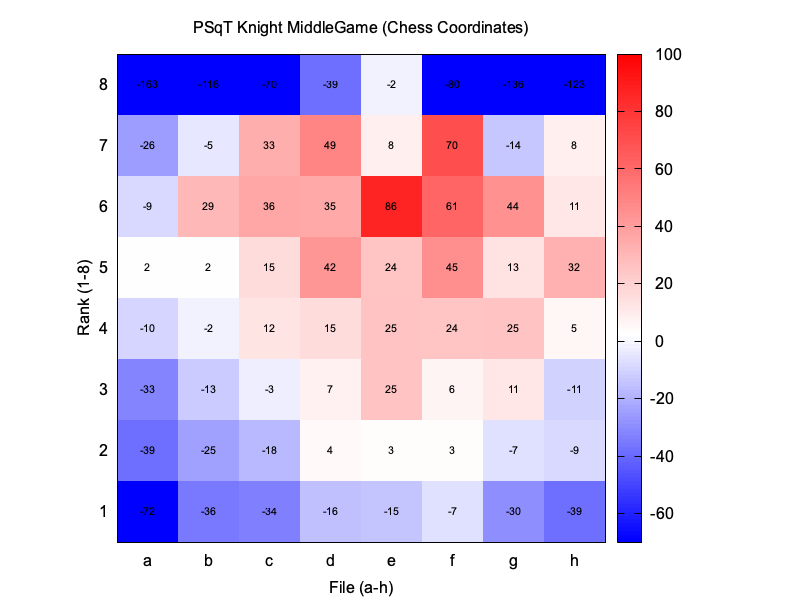
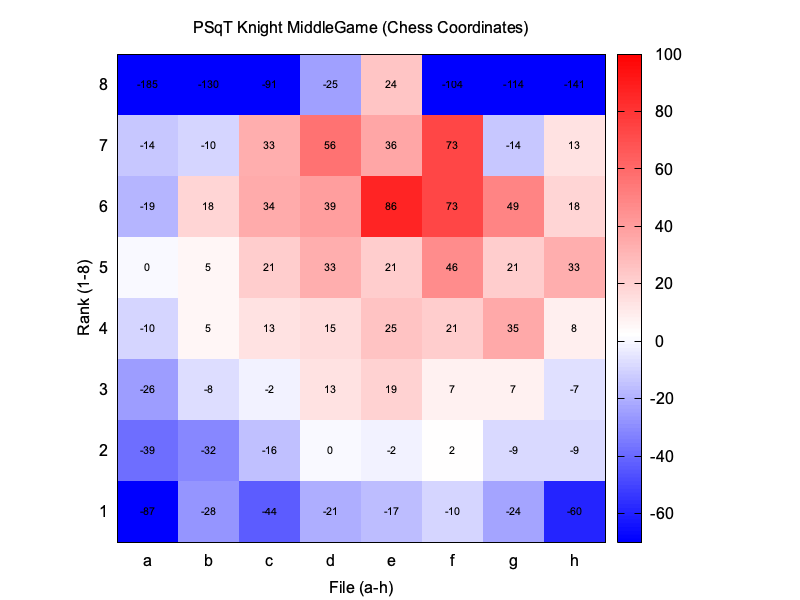
retune with the first 10m ethereal positions
bench 17646719

diff --git a/eval/coeff.go b/eval/coeff.go
@@ -55,175 +55,175 @@ var Coefficients = CoeffSet[Score]{
 	PSqT: [12][64]Score{
 		{
 			0, 0, 0, 0, 0, 0, 0, 0,
-			63, 90, 64, 98, 83, 42, -39, -68,
-			27, 32, 66, 65, 73, 109, 88, 41,
-			0, 11, 21, 26, 48, 43, 35, 18,
-			-8, -2, 10, 28, 29, 24, 14, 5,
-			-9, -4, 5, 7, 22, 15, 30, 8,
-			-8, -5, -4, -4, 9, 28, 38, 1,
+			102, 112, 89, 111, 109, 67, -65, -64,
+			9, 30, 51, 45, 61, 114, 77, 24,
+			4, 16, 18, 31, 49, 49, 38, 13,
+			-2, 2, 11, 19, 25, 24, 21, 7,
+			-4, -4, 1, 5, 16, 18, 28, 12,
+			-4, -6, -9, -4, -1, 29, 39, 7,
 			0, 0, 0, 0, 0, 0, 0, 0,
 		},
 		{
 			0, 0, 0, 0, 0, 0, 0, 0,
-			123, 109, 108, 46, 50, 76, 121, 136,
-			28, 29, -14, -55, -59, -35, 4, 9,
-			12, 1, -14, -33, -35, -26, -12, -11,
-			-6, -7, -19, -27, -28, -23, -18, -22,
-			-11, -11, -18, -16, -18, -19, -25, -25,
-			-10, -11, -14, -11, -7, -19, -28, -27,
+			110, 101, 96, 47, 46, 64, 120, 123,
+			37, 30, 1, -31, -38, -21, 1, 10,
+			10, 0, -12, -34, -32, -27, -15, -14,
+			-7, -7, -22, -26, -26, -22, -22, -23,
+			-13, -15, -18, -20, -15, -16, -27, -28,
+			-8, -12, -10, -11, -1, -11, -27, -34,
 			0, 0, 0, 0, 0, 0, 0, 0,
 		},
 		{
-			-163, -116, -70, -39, -2, -80, -136, -123,
-			-26, -5, 33, 49, 8, 70, -14, 8,
-			-9, 29, 36, 35, 86, 61, 44, 11,
-			2, 2, 15, 42, 24, 45, 13, 32,
-			-10, -2, 12, 15, 25, 24, 25, 5,
-			-33, -13, -3, 7, 25, 6, 11, -11,
-			-39, -25, -18, 4, 3, 3, -7, -9,
-			-72, -36, -34, -16, -15, -7, -30, -39,
+			-185, -130, -91, -25, 24, -104, -114, -141,
+			-14, -10, 33, 56, 36, 73, -14, 13,
+			-19, 18, 34, 39, 86, 73, 49, 18,
+			0, 5, 21, 33, 21, 46, 21, 33,
+			-10, 5, 13, 15, 25, 21, 35, 8,
+			-26, -8, -2, 13, 19, 7, 7, -7,
+			-39, -32, -16, 0, -2, 2, -9, -9,
+			-87, -28, -44, -21, -17, -10, -24, -60,
 		},
 		{
-			-46, -4, 6, -1, -5, -22, -3, -72,
-			3, 9, -1, -3, -8, -19, 4, -22,
-			4, 4, 21, 20, -3, -10, -15, -14,
-			15, 20, 31, 25, 22, 20, 15, 0,
-			24, 21, 39, 31, 36, 26, 14, 17,
-			7, 12, 18, 34, 28, 11, 4, 10,
-			9, 11, 13, 11, 11, 7, 5, 16,
-			10, -5, 12, 15, 16, 2, -4, 5,
+			-34, 11, 22, 8, 6, 30, 12, -62,
+			-12, 4, -1, 15, 10, -18, 6, -22,
+			-4, 3, 32, 29, 11, 13, -9, -12,
+			1, 14, 34, 40, 39, 29, 24, 5,
+			10, 19, 45, 40, 45, 44, 22, 19,
+			-17, 7, 17, 36, 32, 14, 7, -2,
+			-2, 12, 0, 12, 15, -4, 4, 7,
+			-13, -27, -2, 9, 10, -3, -14, -16,
 		},
 		{
-			-41, -61, -43, -92, -83, -94, -53, -66,
-			-31, -3, -12, -30, 2, -20, -18, -54,
-			-9, 9, 11, 26, 7, 52, 25, 16,
-			-20, -8, 9, 26, 22, 10, -7, -23,
-			-17, -14, -15, 16, 12, -11, -13, -3,
-			-12, -3, -2, -8, -5, 0, 4, 4,
-			-4, 0, 4, -14, -2, 10, 18, 4,
-			-19, 4, -15, -19, -12, -17, 7, -4,
+			-59, -58, -94, -97, -89, -124, -34, -55,
+			-46, -9, -12, -31, -7, -8, -23, -52,
+			-9, 6, 26, 22, 28, 52, 38, 10,
+			-20, 5, 7, 36, 20, 19, 2, -12,
+			-13, -5, -3, 12, 14, -9, -4, -5,
+			-13, 2, -2, -2, -4, 0, 1, 5,
+			0, 1, 5, -12, -5, 1, 15, 5,
+			-2, 2, -19, -28, -23, -13, -9, -9,
 		},
 		{
-			16, 19, 8, 21, 16, 12, 10, 6,
-			3, 6, 9, 10, 1, 8, 12, 3,
-			17, 11, 12, 3, 9, 10, 6, 9,
-			12, 18, 14, 27, 17, 18, 14, 14,
-			7, 16, 24, 21, 20, 19, 12, -9,
-			6, 18, 19, 21, 24, 17, 8, -2,
-			12, 1, -2, 13, 8, 3, 7, -8,
-			-2, 11, 10, 9, 11, 15, -8, -14,
+			31, 28, 29, 36, 30, 32, 16, 17,
+			15, 20, 21, 21, 16, 18, 23, 13,
+			17, 22, 18, 12, 14, 23, 18, 14,
+			13, 22, 19, 26, 30, 20, 28, 18,
+			5, 14, 27, 28, 26, 25, 14, 2,
+			6, 15, 19, 21, 25, 15, 9, 3,
+			4, -5, -2, 10, 9, 2, 1, -21,
+			-10, 3, 6, 6, 10, 9, -3, -12,
 		},
 		{
-			26, 16, 24, 22, 33, 30, 22, 57,
-			6, 0, 26, 43, 27, 44, 19, 50,
-			-11, 17, 12, 14, 43, 40, 73, 45,
-			-16, -7, -7, 5, 7, 7, 14, 15,
-			-34, -32, -19, -7, -8, -27, -1, -15,
-			-31, -27, -17, -15, -6, -10, 19, -2,
-			-35, -23, -7, -3, 0, 1, 19, -23,
-			-20, -14, -5, 4, 8, 0, 7, -21,
+			49, 53, 31, 46, 47, 56, 58, 77,
+			14, 4, 34, 50, 43, 64, 32, 56,
+			-4, 32, 23, 42, 66, 69, 92, 38,
+			-13, -1, 8, 27, 20, 26, 29, 19,
+			-30, -26, -21, -10, -13, -22, 0, -14,
+			-32, -23, -23, -16, -14, -17, 9, -13,
+			-48, -23, -13, -8, -8, -2, 11, -34,
+			-20, -14, -7, 1, 1, -3, 7, -20,
 		},
 		{
-			24, 32, 36, 30, 26, 28, 26, 18,
-			24, 38, 37, 27, 29, 22, 22, 7,
-			24, 23, 23, 20, 11, 6, 0, -3,
-			28, 25, 31, 23, 11, 9, 7, 5,
-			24, 24, 23, 19, 16, 18, 2, 5,
-			16, 14, 13, 14, 7, 2, -20, -14,
-			15, 14, 13, 11, 5, -1, -12, 4,
-			12, 12, 15, 7, 1, 4, -2, 0,
+			33, 36, 48, 40, 44, 44, 41, 36,
+			36, 45, 41, 38, 39, 21, 30, 19,
+			33, 23, 33, 22, 14, 17, 1, 18,
+			29, 30, 33, 27, 24, 20, 13, 19,
+			20, 30, 31, 26, 26, 27, 16, 14,
+			6, 16, 15, 13, 13, 9, 0, -4,
+			9, 5, 10, 7, 5, -2, -10, 4,
+			8, 9, 13, 7, 4, 10, 1, 0,
 		},
 		{
-			-49, -28, -9, 16, 16, 26, 16, -27,
-			-11, -32, -16, -20, -29, 13, -9, 28,
-			0, -2, -3, 11, 6, 57, 47, 59,
-			-16, -6, -5, -8, 0, 11, 13, 8,
-			-9, -15, -9, 1, 4, 1, 5, 8,
-			-13, -3, 0, -2, 4, 5, 17, 6,
-			-6, -1, 7, 15, 12, 20, 26, 36,
-			-11, -13, -2, 5, 5, -13, 9, -13,
+			-30, 0, 10, 23, 31, 57, 42, 15,
+			-20, -45, -8, -30, -25, 31, -29, 27,
+			-10, 0, -2, 6, 16, 67, 62, 40,
+			-5, -5, -7, -5, 2, 9, 23, 15,
+			-2, -1, -3, 0, 1, 7, 9, 17,
+			-6, 6, 8, 2, 7, 7, 18, 10,
+			-1, 7, 11, 14, 13, 23, 26, 19,
+			2, 0, 6, 12, 14, -11, 2, -10,
 		},
 		{
-			46, 36, 54, 49, 51, 42, 8, 55,
-			3, 32, 60, 70, 102, 62, 23, 25,
-			11, 29, 56, 51, 68, 36, -1, -17,
-			30, 37, 45, 59, 63, 44, 41, 31,
-			7, 38, 41, 56, 50, 41, 24, 15,
-			-2, 8, 30, 30, 35, 30, -3, -10,
-			-19, -9, -9, -5, -1, -24, -62, -94,
-			-10, -10, -5, -9, -14, -23, -45, -24,
+			59, 51, 68, 78, 91, 85, 64, 86,
+			32, 61, 59, 97, 133, 99, 81, 54,
+			26, 26, 58, 64, 90, 78, 53, 56,
+			14, 49, 49, 72, 88, 95, 83, 61,
+			0, 37, 42, 67, 60, 58, 39, 35,
+			-12, 6, 25, 22, 24, 30, 1, -13,
+			-24, -17, -23, -9, -10, -47, -68, -58,
+			-23, -34, -26, -16, -33, -33, -52, -12,
 		},
 		{
-			94, 140, 100, 45, -18, -16, -60, 131,
-			-49, 38, 15, 120, 60, 23, 18, -56,
-			-28, 65, 29, 10, 46, 102, 26, -6,
-			-3, -12, -27, -36, -36, -34, -61, -109,
-			-58, -48, -44, -70, -78, -68, -106, -137,
-			-46, -36, -62, -62, -49, -74, -50, -72,
-			38, -9, -18, -43, -49, -35, 4, 15,
-			23, 54, 25, -60, -14, -42, 30, 30,
+			100, 171, 136, 78, 14, 34, -3, 135,
+			-34, 82, 73, 146, 84, 75, 58, -61,
+			16, 121, 110, 58, 89, 132, 86, -12,
+			21, 55, 54, 25, 34, 50, 30, -47,
+			-31, 14, 32, -14, 4, 4, -2, -83,
+			-39, -20, -30, -30, -17, -34, -17, -50,
+			17, -12, -29, -60, -54, -48, -1, 9,
+			8, 39, 7, -70, -28, -67, 17, 22,
 		},
 		{
-			-110, -70, -43, -8, -5, -5, -10, -124,
-			-9, 16, 26, 6, 28, 43, 40, 10,
-			-2, 21, 35, 48, 52, 44, 48, 11,
-			-11, 24, 44, 53, 56, 53, 45, 19,
-			-15, 15, 35, 52, 51, 39, 30, 13,
-			-20, 5, 24, 34, 31, 25, 8, -7,
-			-40, -9, 5, 13, 17, 7, -14, -38,
-			-72, -58, -35, -7, -27, -14, -50, -83,
+			-152, -88, -60, -22, -23, -25, -18, -151,
+			-19, 8, 12, -9, 10, 18, 34, -8,
+			-2, 18, 23, 34, 27, 32, 35, 7,
+			-5, 21, 37, 43, 40, 34, 29, 7,
+			-15, 15, 31, 47, 40, 31, 16, 3,
+			-10, 9, 23, 33, 30, 23, 3, -7,
+			-18, -1, 12, 18, 18, 16, -8, -33,
+			-65, -40, -21, -11, -32, -3, -36, -85,
 		},
 	},
 	PieceValues: [2][7]Score{
-		{0, 79, 392, 404, 518, 1059, 0},
-		{0, 127, 328, 347, 650, 1288, 0},
+		{0, 77, 394, 405, 521, 1113, 0},
+		{0, 133, 346, 369, 675, 1313, 0},
 	},
-	TempoBonus: [2]Score{25, 23},
+	TempoBonus: [2]Score{14, 13},
 	KingAttackPieces: [2][4]Score{
-		{7, 8, 8, 15},
-		{-49, 12, 8, -81},
+		{8, 8, 10, 16},
+		{-55, 16, 4, -81},
 	},
 	SafeChecks: [2][4]Score{
-		{9, 9, 9, 5},
-		{19, 17, -10, 8},
+		{7, 7, 7, 6},
+		{12, -5, 3, 7},
 	},
-	KingShelter: [2]Score{7, -6},
+	KingShelter: [2]Score{7, -1},
 	MobilityKnight: [2][9]Score{
-		{-57, -36, -25, -18, -12, -6, 2, 8, 10},
-		{-40, -1, 20, 30, 38, 47, 45, 41, 30},
+		{-40, -29, -24, -20, -16, -12, -6, 1, 9},
+		{-64, -7, 22, 37, 46, 55, 53, 46, 29},
 	},
 	MobilityBishop: [2][14]Score{
-		{-46, -35, -26, -22, -15, -8, -1, 2, 3, 5, 7, 9, 5, 19},
-		{-19, -3, 1, 12, 25, 37, 39, 46, 52, 49, 47, 45, 51, 37},
+		{-32, -28, -22, -21, -17, -11, -6, -5, -4, -2, 1, 4, 0, 37},
+		{-31, -10, 0, 14, 27, 40, 47, 54, 61, 60, 56, 55, 57, 36},
 	},
 	MobilityRook: [2][11]Score{
-		{-26, -19, -16, -12, -7, -1, 7, 14, 14, 17, 23},
-		{-6, 2, 11, 17, 24, 28, 29, 32, 40, 45, 39},
+		{-20, -14, -14, -10, -7, -1, 5, 12, 14, 18, 36},
+		{-3, 4, 16, 23, 34, 39, 43, 45, 50, 54, 43},
 	},
 	KnightOutpost: [2][40]Score{
 		{
-			-29, 52, 30, 20, 56, 99, 120, -30,
-			63, -8, -24, -55, 3, -39, -4, 0,
-			0, -4, 9, 33, 14, 48, 17, 12,
-			-1, 25, 37, 35, 48, 50, 68, 17,
-			0, 0, 0, 31, 48, 0, 0, 0,
+			-12, 16, 68, 22, 82, 87, 151, -37,
+			69, 18, -11, -24, 22, -33, -2, -9,
+			2, -5, 16, 23, 6, 35, 12, 28,
+			11, 23, 29, 34, 44, 60, 54, 17,
+			0, 0, 0, 33, 39, 0, 0, 0,
 		},
 		{
-			-92, 139, -14, 26, -40, 72, -47, 43,
-			-54, 24, 30, 35, 10, 37, 17, 81,
-			25, 13, 28, 26, 36, 34, 29, 36,
-			21, 13, 18, 27, 29, 15, 0, 23,
-			0, 0, 0, 21, 18, 0, 0, 0,
+			-62, 68, 10, 16, -8, 55, -25, 34,
+			-23, 10, 20, 12, 6, 30, 21, 42,
+			34, 40, 22, 28, 38, 37, 46, 37,
+			19, 16, 22, 28, 32, 17, 11, 20,
+			0, 0, 0, 19, 17, 0, 0, 0,
 		},
 	},
-	ConnectedRooks:  [2]Score{1, 7},
-	BishopPair:      [9]Score{-2, 43, 60, 55, 46, 38, 34, 36, 38},
-	ProtectedPasser: [2]Score{22, 5},
-	PasserKingDist:  [2]Score{8, 8},
+	ConnectedRooks:  [2]Score{2, 14},
+	BishopPair:      [9]Score{7, 48, 56, 51, 46, 41, 35, 31, 24},
+	ProtectedPasser: [2]Score{20, 5},
+	PasserKingDist:  [2]Score{-5, 12},
 	PasserRank: [2][6]Score{
-		{-13, -25, -20, 4, 5, 39},
-		{11, 14, 41, 68, 139, 95},
+		{-14, -22, -16, 11, 37, 72},
+		{18, 20, 43, 67, 118, 77},
 	},
-	DoubledPawns:  [2]Score{-9, -16},
-	IsolatedPawns: [2]Score{-16, -11},
+	DoubledPawns:  [2]Score{-13, -14},
+	IsolatedPawns: [2]Score{-13, -14},
 }

diff --git a/docs/eval/readme.md b/docs/eval/readme.md
@@ -84,7 +84,7 @@
 ![TempoBonus](tempobonus.png)
 
 
-Middle Game: 25 | End Game: 23
+Middle Game: 14 | End Game: 13
 
 
 ## KingAttackPieces
@@ -104,7 +104,7 @@ Middle Game: 25 | End Game: 23
 ![KingShelter](kingshelter.png)
 
 
-Middle Game: 7 | End Game: -6
+Middle Game: 7 | End Game: -1
 
 
 ## MobilityKnight
@@ -142,7 +142,7 @@ Middle Game: 7 | End Game: -6
 ![ConnectedRooks](connectedrooks.png)
 
 
-Middle Game: 1 | End Game: 7
+Middle Game: 2 | End Game: 14
 
 
 ## BishopPair
@@ -156,7 +156,7 @@ Middle Game: 1 | End Game: 7
 ![ProtectedPasser](protectedpasser.png)
 
 
-Middle Game: 22 | End Game: 5
+Middle Game: 20 | End Game: 5
 
 
 ## PasserKingDist
@@ -164,7 +164,7 @@ Middle Game: 22 | End Game: 5
 ![PasserKingDist](passerkingdist.png)
 
 
-Middle Game: 8 | End Game: 8
+Middle Game: -5 | End Game: 12
 
 
 ## PasserRank
@@ -178,7 +178,7 @@ Middle Game: 8 | End Game: 8
 ![DoubledPawns](doubledpawns.png)
 
 
-Middle Game: -9 | End Game: -16
+Middle Game: -13 | End Game: -14
 
 
 ## IsolatedPawns
@@ -186,6 +186,6 @@ Middle Game: -9 | End Game: -16
 ![IsolatedPawns](isolatedpawns.png)
 
 
-Middle Game: -16 | End Game: -11
+Middle Game: -13 | End Game: -14
 
 
